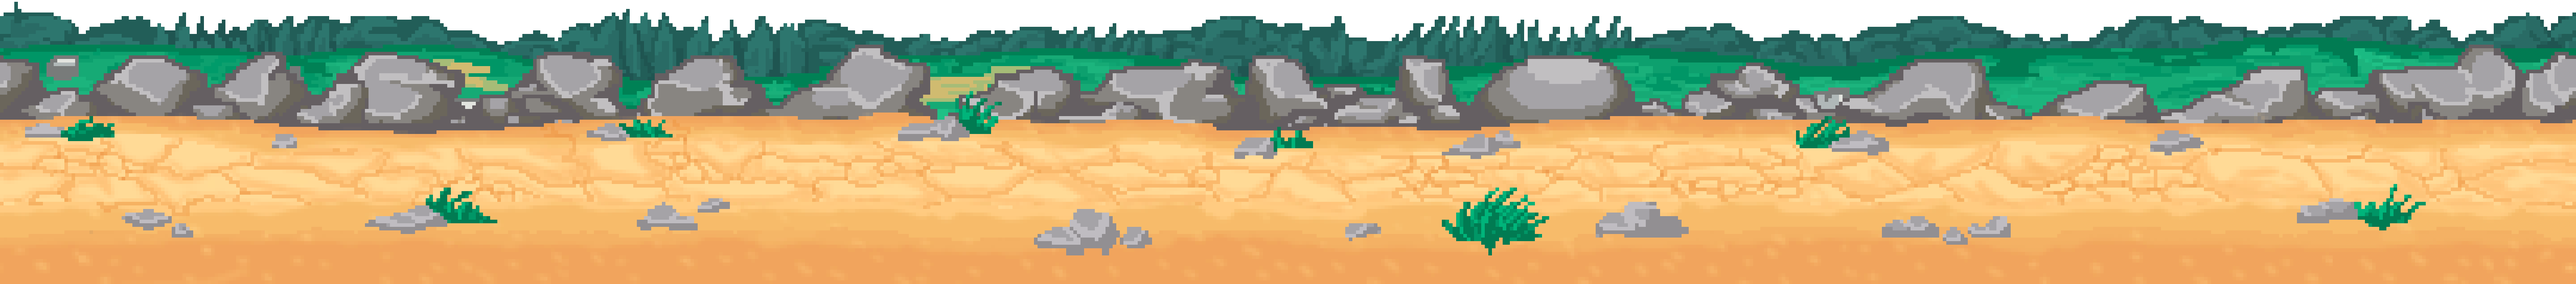
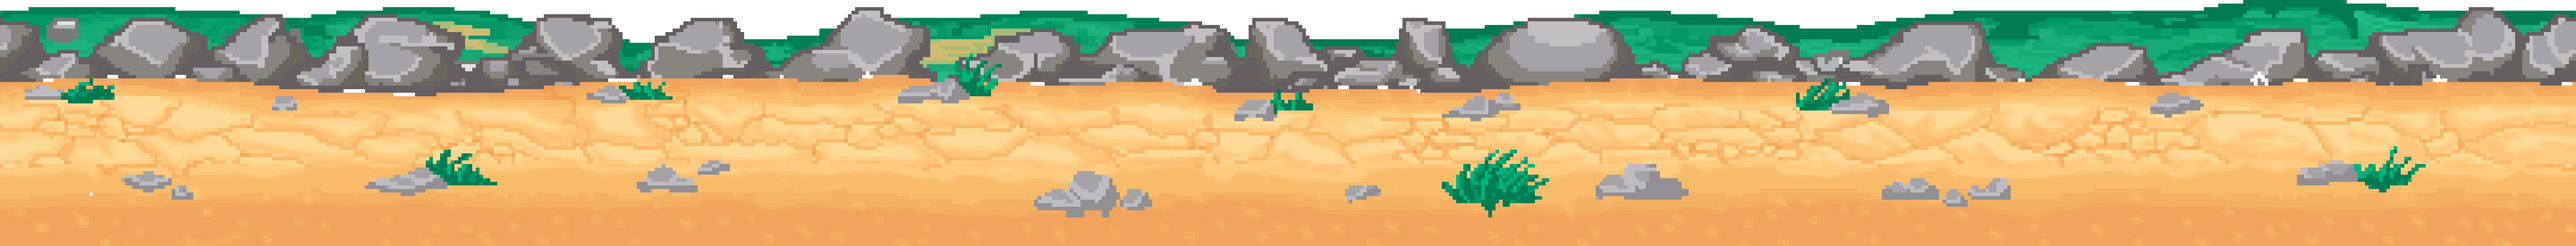
Faltan instrucciones

diff --git a/sockets/views/css/main.css b/sockets/views/css/main.css
@@ -1,7 +1,7 @@
 body{
   background-color: rgb(196, 237, 238);
   font-family: standard_09_66regular;
-  background-image: url('./scripts/assets/cielobonito.png');  
+  background-image: url('./scripts/assets/cielobonito2.png');
   background-repeat: no-repeat;
   background-position: top;
   overflow-x: hidden;
